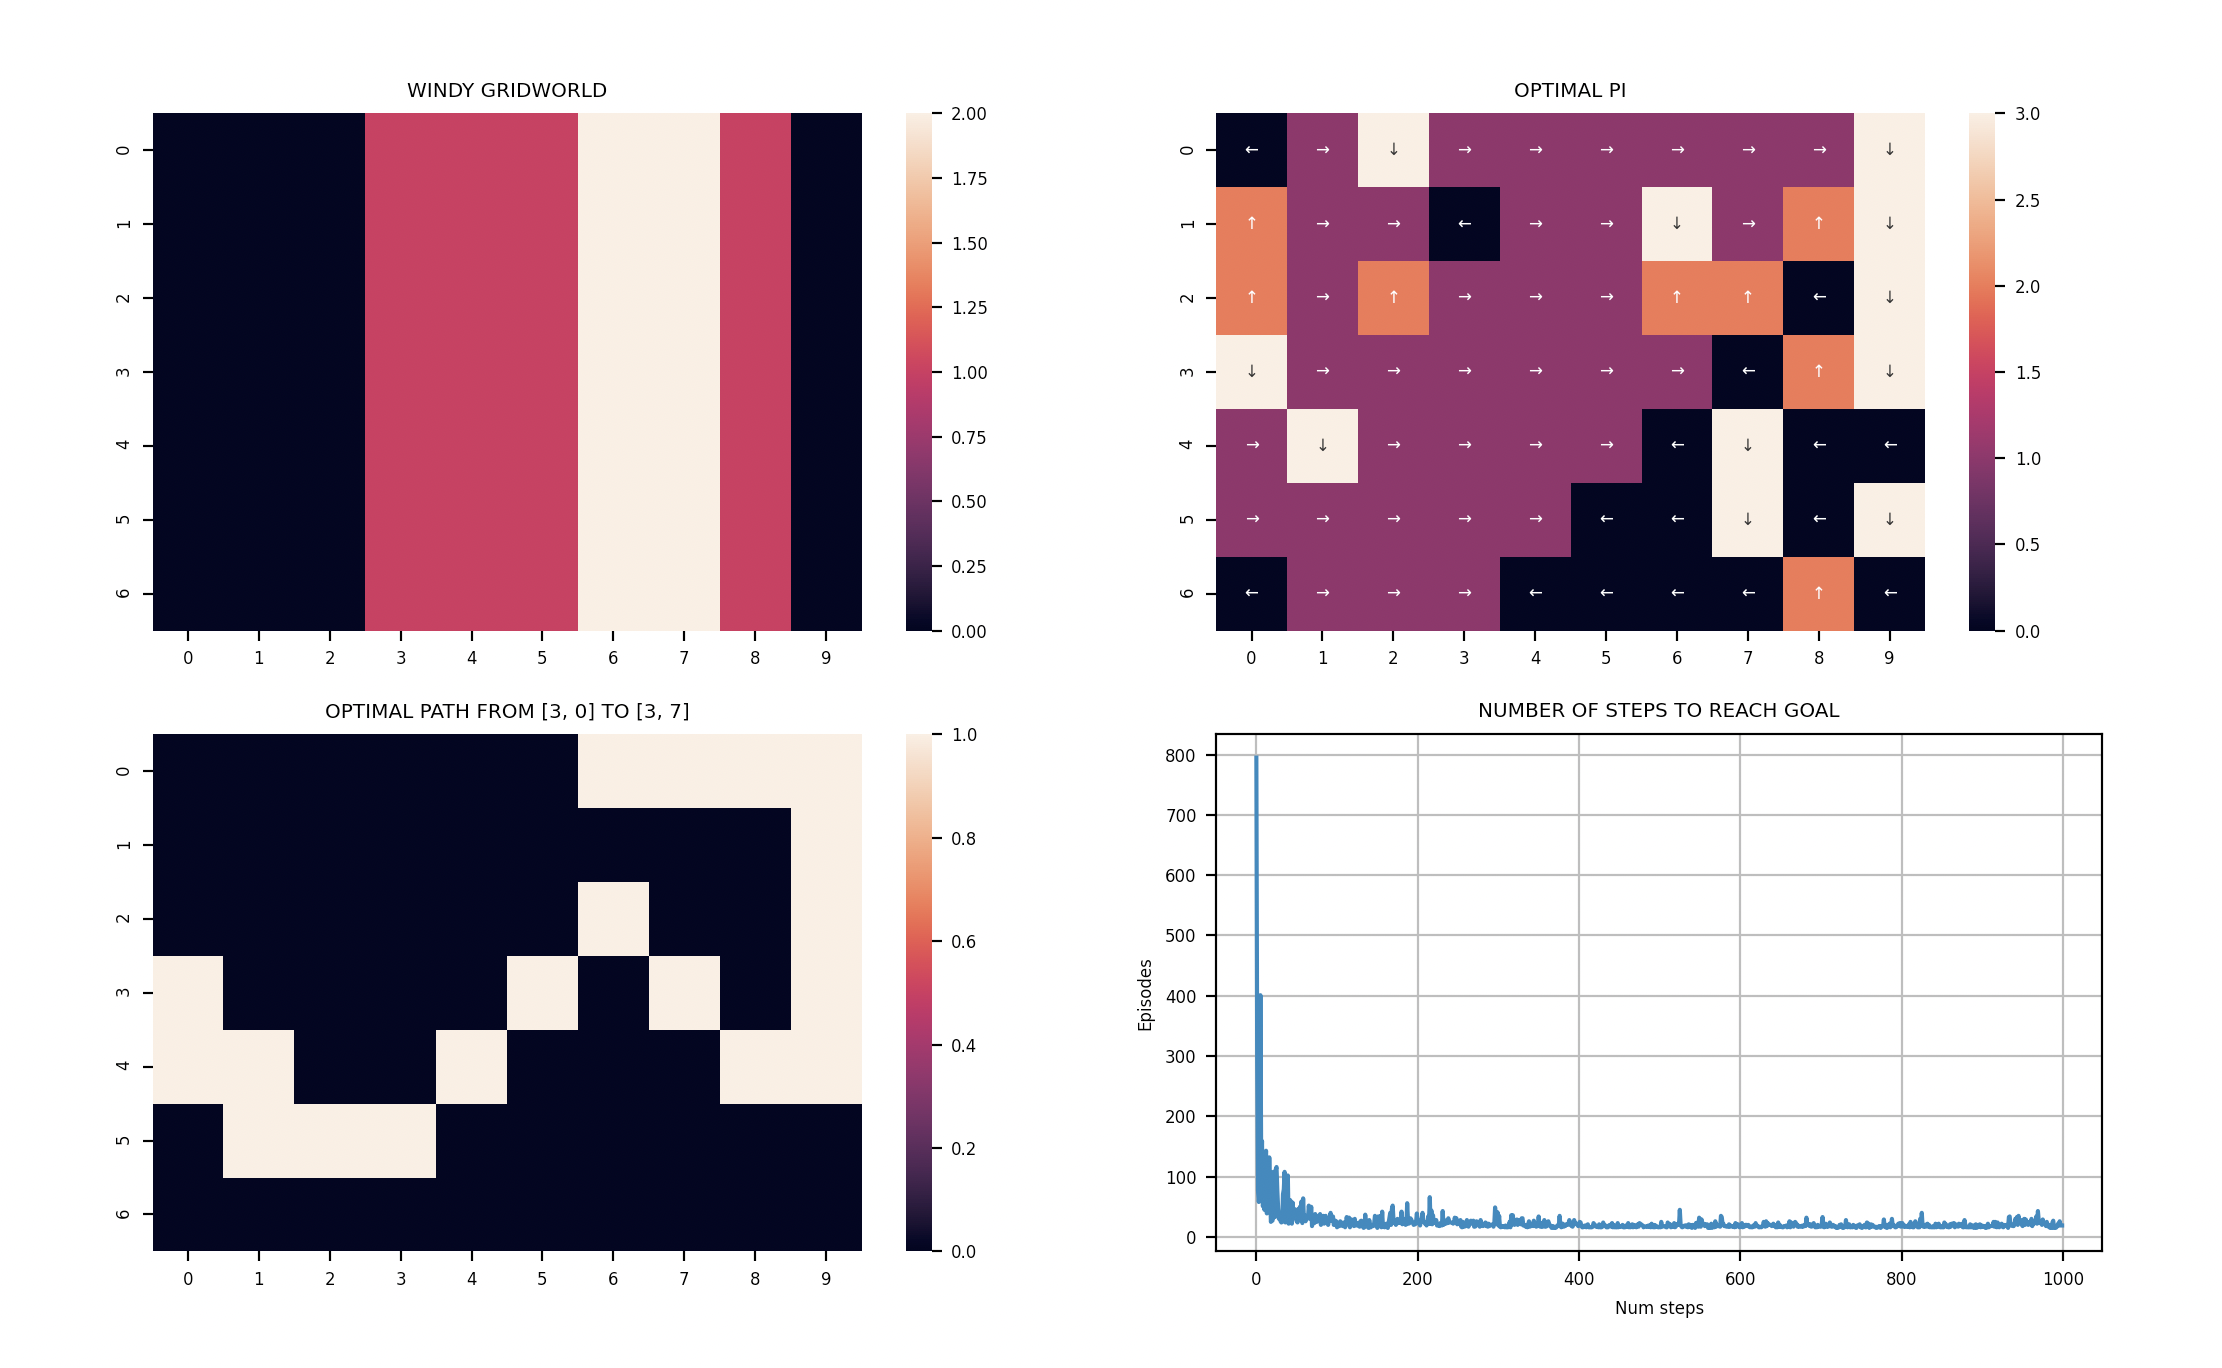
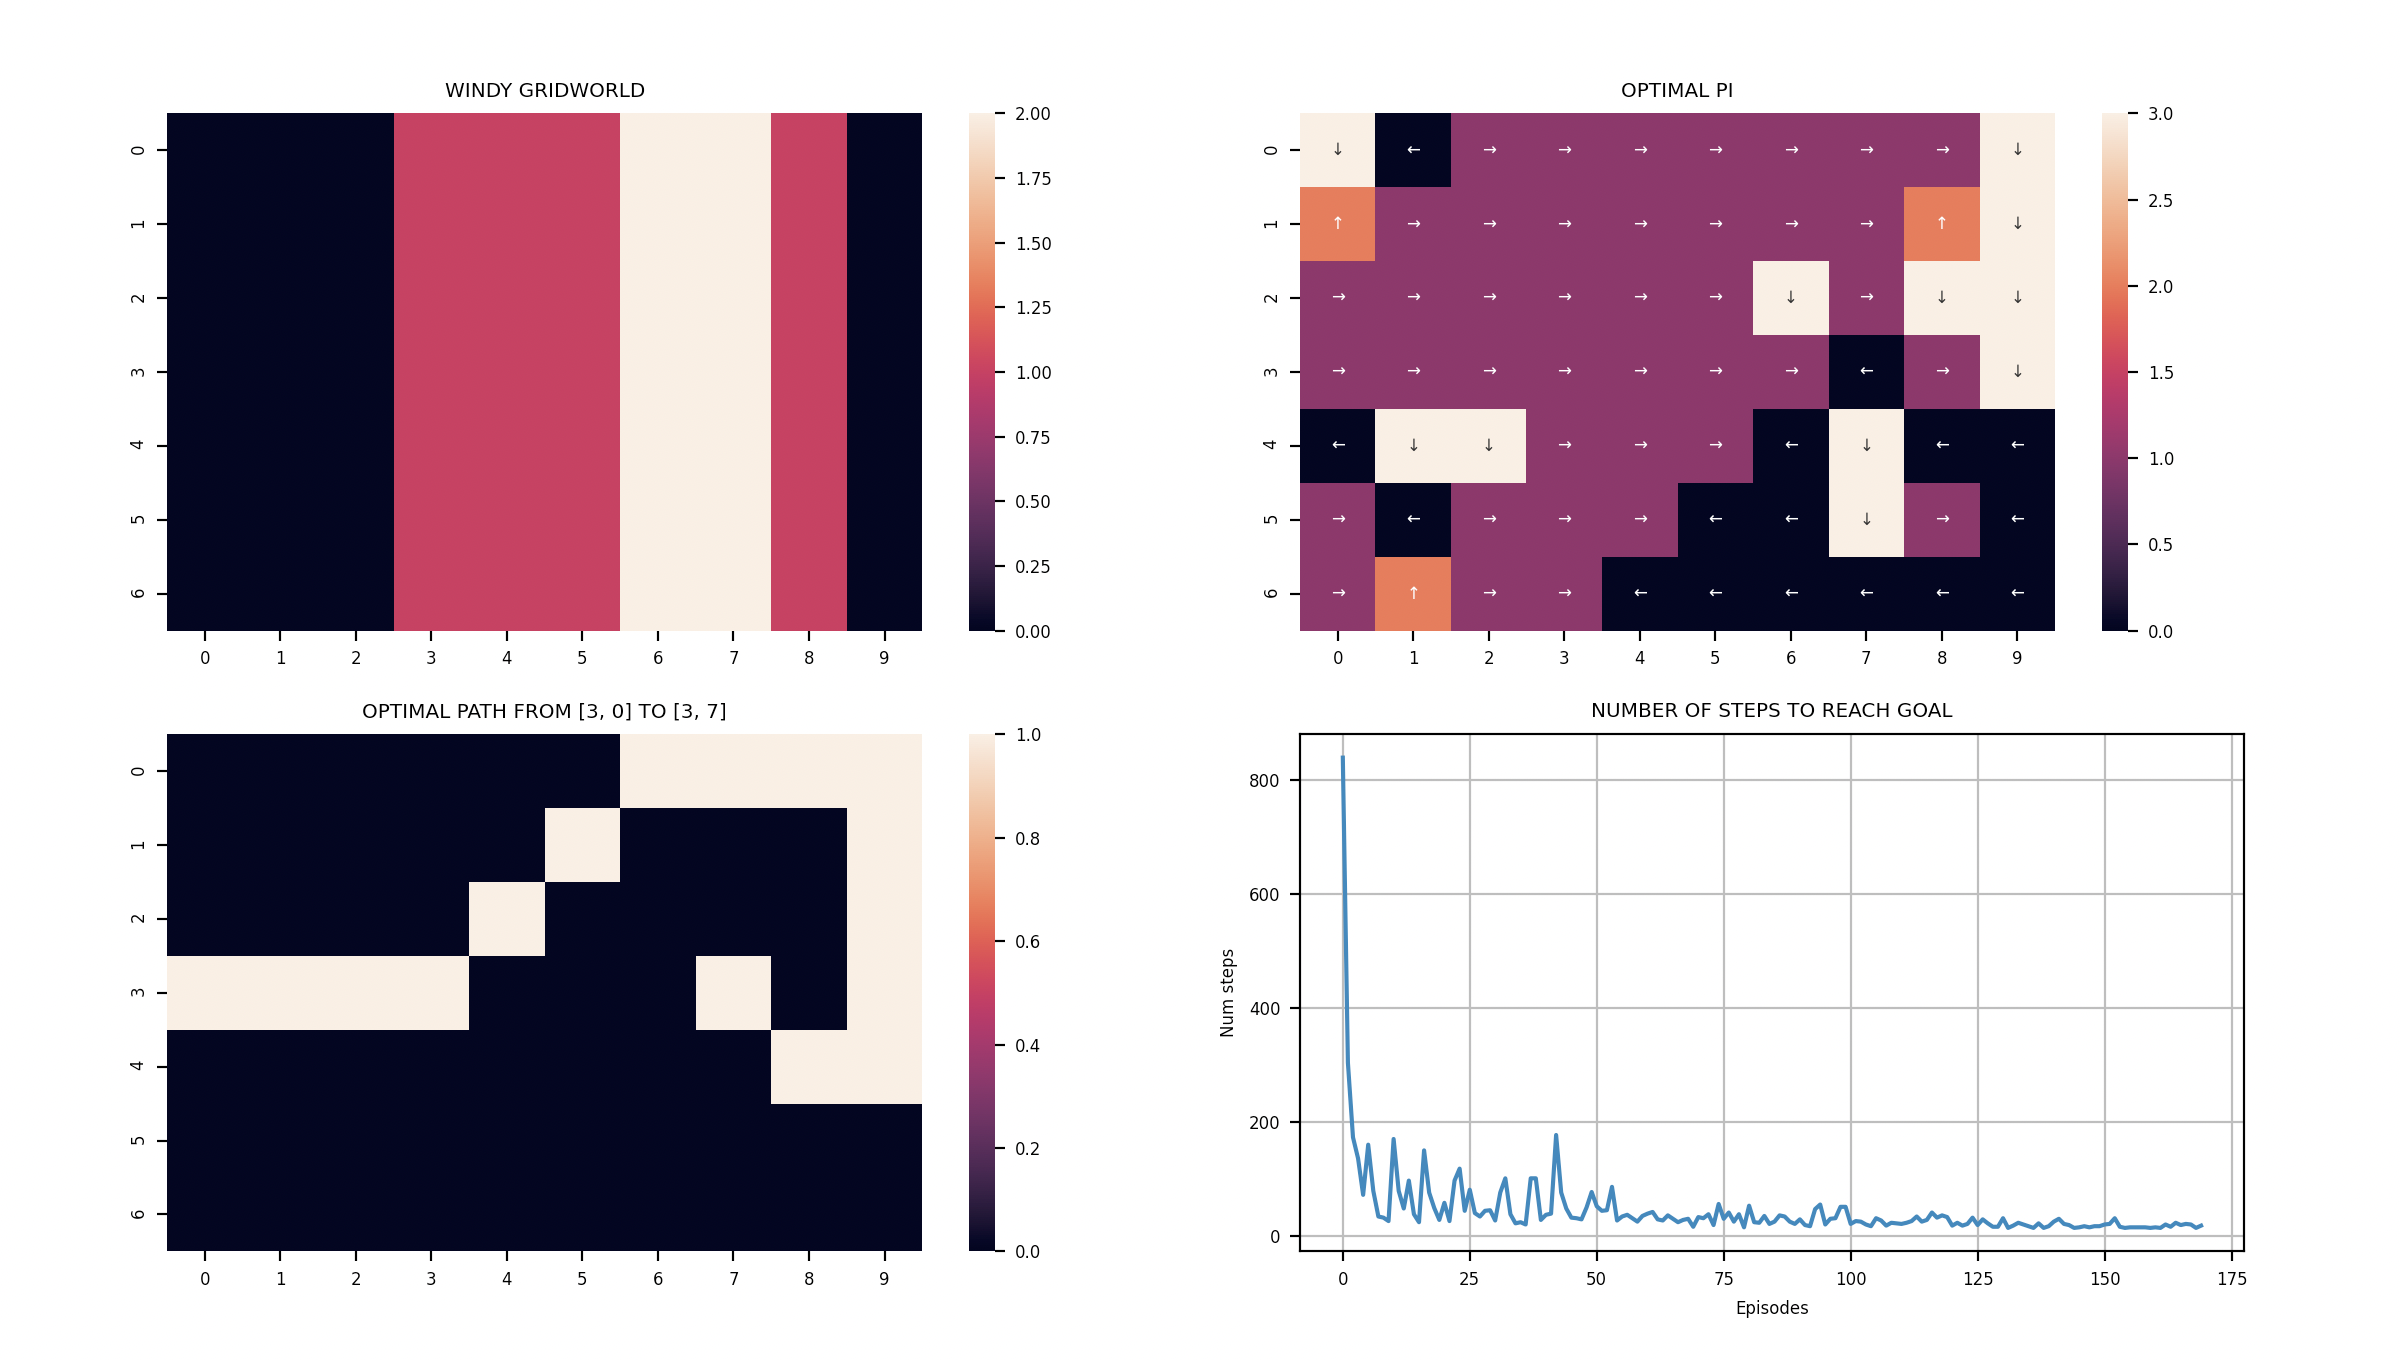
Fix x,y label for windy-gridworld

diff --git a/windy-grid-world/windy_gridworld.py b/windy-grid-world/windy_gridworld.py
@@ -142,8 +142,8 @@ def visualize(optimal_pi=None, num_steps=None, show=False, save=False):  # Visua
 
     plt.subplot(2,2,4)
     plt.title(f'NUMBER OF STEPS TO REACH GOAL')
-    plt.xlabel('Num steps')
-    plt.ylabel('Episodes')
+    plt.xlabel('Episodes')
+    plt.ylabel('Num steps')
     plt.grid()
     plt.plot(num_steps)
 
@@ -160,7 +160,7 @@ if __name__ == "__main__":
     alpha = 0.5  # Learning rate
     gamma = 1.0  # Discounting rate
     epsilon = 0.1  # Greedy rate 
-    num_episodes = 1000
+    num_episodes = 170
     Q, num_steps = sarsa(num_episodes, alpha, gamma, epsilon)
 
     # Get optimal policies through estimated optimal Q with SARSA.
